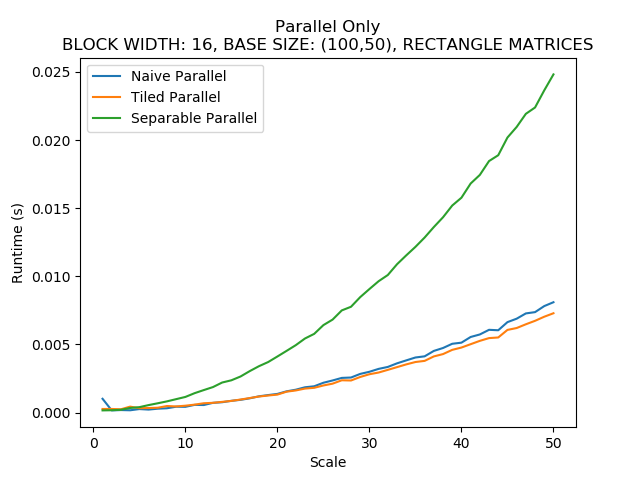
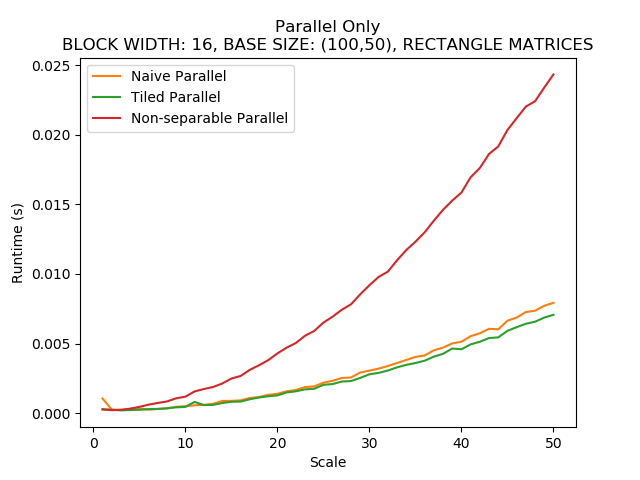
Correct benchmark results

diff --git a/benchmark_random_signal.py b/benchmark_random_signal.py
@@ -10,7 +10,7 @@ import matplotlib.pyplot as plt
 """
 Parameters to experiment with
 """
-BLOCK_WIDTH = 16
+BLOCK_WIDTH = 32
 M = 100
 N = 50
 L_max = 50
@@ -55,7 +55,7 @@ cdf97_syn_hi = factor * np.array([0, 0.026748757411, 0.016864118443, -0.07822326
 filters = np.vstack((cdf97_an_lo, cdf97_an_hi, cdf97_syn_lo, cdf97_syn_hi)).astype(np.float32)
 dwt_naive = DWT_naive()
 dwt_tiled = DWT_optimized_shared_mem()
-dwt_separable = DWT_optimized()
+dwt_nonseparable = DWT_optimized()
 
 # Path setup
 dirpath = os.getcwd()
@@ -70,7 +70,7 @@ outputpath_parallel = os.path.join(outpath, f_name_parallel)
 vec_serial_time = []
 vec_kernel_time = []
 vec_kernel_time_tiled = []
-vec_kernel_time_separable = []
+vec_kernel_time_nonseparable = []
 
 for L in np.arange(1, L_max + 1, 1):
     signal_i = np.random.rand(L * M, L * N).astype(np.float32)
@@ -79,7 +79,7 @@ for L in np.arange(1, L_max + 1, 1):
     h_cA_i, h_cH_i, h_cV_i, h_cD_i, kernel_time_i = dwt_naive.dwt_gpu_naive(signal_i, filters, BLOCK_WIDTH)
     h_cA_tiled_i, h_cH_tiled_i, h_cV_tiled_i, h_cD_tiled_i, kernel_time_tiled_i = dwt_tiled.dwt_gpu_optimized(signal_i, filters,
                                                                                                     BLOCK_WIDTH)
-    h_cAo_i, h_cHo_i, h_cVo_i, h_cDo_i, kernel_time_o_i = dwt_separable.dwt_gpu_optimized(signal_i, filters, BLOCK_WIDTH)
+    h_cAo_i, h_cHo_i, h_cVo_i, h_cDo_i, kernel_time_o_i = dwt_nonseparable.dwt_gpu_optimized(signal_i, filters, BLOCK_WIDTH)
 
     print('\n\n\n###########################################################################')
     print('##                            Iteration {}                               ##'.format(L + 1))
@@ -102,27 +102,27 @@ for L in np.arange(1, L_max + 1, 1):
         raise Exception('Tiled parallel outputs not same as serial')
 
     print('\nseparable same as serial c_A: {}'.format(np.allclose(cA_i, h_cAo_i, atol=5e-7)))
-    print('separable same as serial c_H: {}'.format(np.allclose(cH_i, h_cHo_i, atol=5e-7)))
-    print('separable same as serial c_V: {}'.format(np.allclose(cV_i, h_cVo_i, atol=5e-7)))
-    print('separable same as serial c_D: {}'.format(np.allclose(cD_i, h_cDo_i, atol=5e-7)))
+    print('Non-separable same as serial c_H: {}'.format(np.allclose(cH_i, h_cHo_i, atol=5e-7)))
+    print('Non-separable same as serial c_V: {}'.format(np.allclose(cV_i, h_cVo_i, atol=5e-7)))
+    print('Non-separable same as serial c_D: {}'.format(np.allclose(cD_i, h_cDo_i, atol=5e-7)))
 
     print('\nSerial time: {}'.format(serial_time_i))
     print('Parallel time: {}'.format(kernel_time_i))
     print('Tiled parallel time: {}'.format(kernel_time_tiled_i))
-    print('Separable parallel time: {}'.format(kernel_time_o_i))
+    print('Non-separable parallel time: {}'.format(kernel_time_o_i))
 
     vec_serial_time.append(serial_time_i)
     vec_kernel_time.append(kernel_time_i)
     vec_kernel_time_tiled.append(kernel_time_tiled_i)
-    vec_kernel_time_separable.append(kernel_time_o_i)
+    vec_kernel_time_nonseparable.append(kernel_time_o_i)
 
 plt.figure()
 n_iter = np.arange(1, L_max + 1, 1)
 plt.title('Serial vs Parallel\nBLOCK WIDTH: {}, BASE SIZE: ({},{}), {} MATRICES'.format(BLOCK_WIDTH, M, N, shape_caps))
-plt.plot(n_iter, vec_serial_time, label='Serial')
-plt.plot(n_iter, vec_kernel_time, label='Naive Parallel')
-plt.plot(n_iter, vec_kernel_time_tiled, label='Tiled Parallel')
-plt.plot(n_iter, vec_kernel_time_separable, label='Separable Parallel')
+plt.plot(n_iter, vec_serial_time, 'C0', label='Serial')
+plt.plot(n_iter, vec_kernel_time, 'C1', label='Naive Parallel')
+plt.plot(n_iter, vec_kernel_time_tiled, 'C2', label='Tiled Parallel')
+plt.plot(n_iter, vec_kernel_time_nonseparable, 'C3', label='Non-separable Parallel')
 plt.xlabel('Scale')
 plt.ylabel('Runtime (s)')
 plt.legend()
@@ -131,9 +131,9 @@ plt.savefig(str(outputpath_full))
 plt.figure()
 n_iter = np.arange(1, L_max + 1, 1)
 plt.title('Parallel Only\nBLOCK WIDTH: {}, BASE SIZE: ({},{}), {} MATRICES'.format(BLOCK_WIDTH, M, N, shape_caps))
-plt.plot(n_iter, vec_kernel_time, label='Naive Parallel')
-plt.plot(n_iter, vec_kernel_time_tiled, label='Tiled Parallel')
-plt.plot(n_iter, vec_kernel_time_separable, label='Separable Parallel')
+plt.plot(n_iter, vec_kernel_time, 'C1', label='Naive Parallel')
+plt.plot(n_iter, vec_kernel_time_tiled, 'C2', label='Tiled Parallel')
+plt.plot(n_iter, vec_kernel_time_nonseparable, 'C3', label='Non-separable Parallel')
 plt.xlabel('Scale')
 plt.ylabel('Runtime (s)')
 plt.legend()
